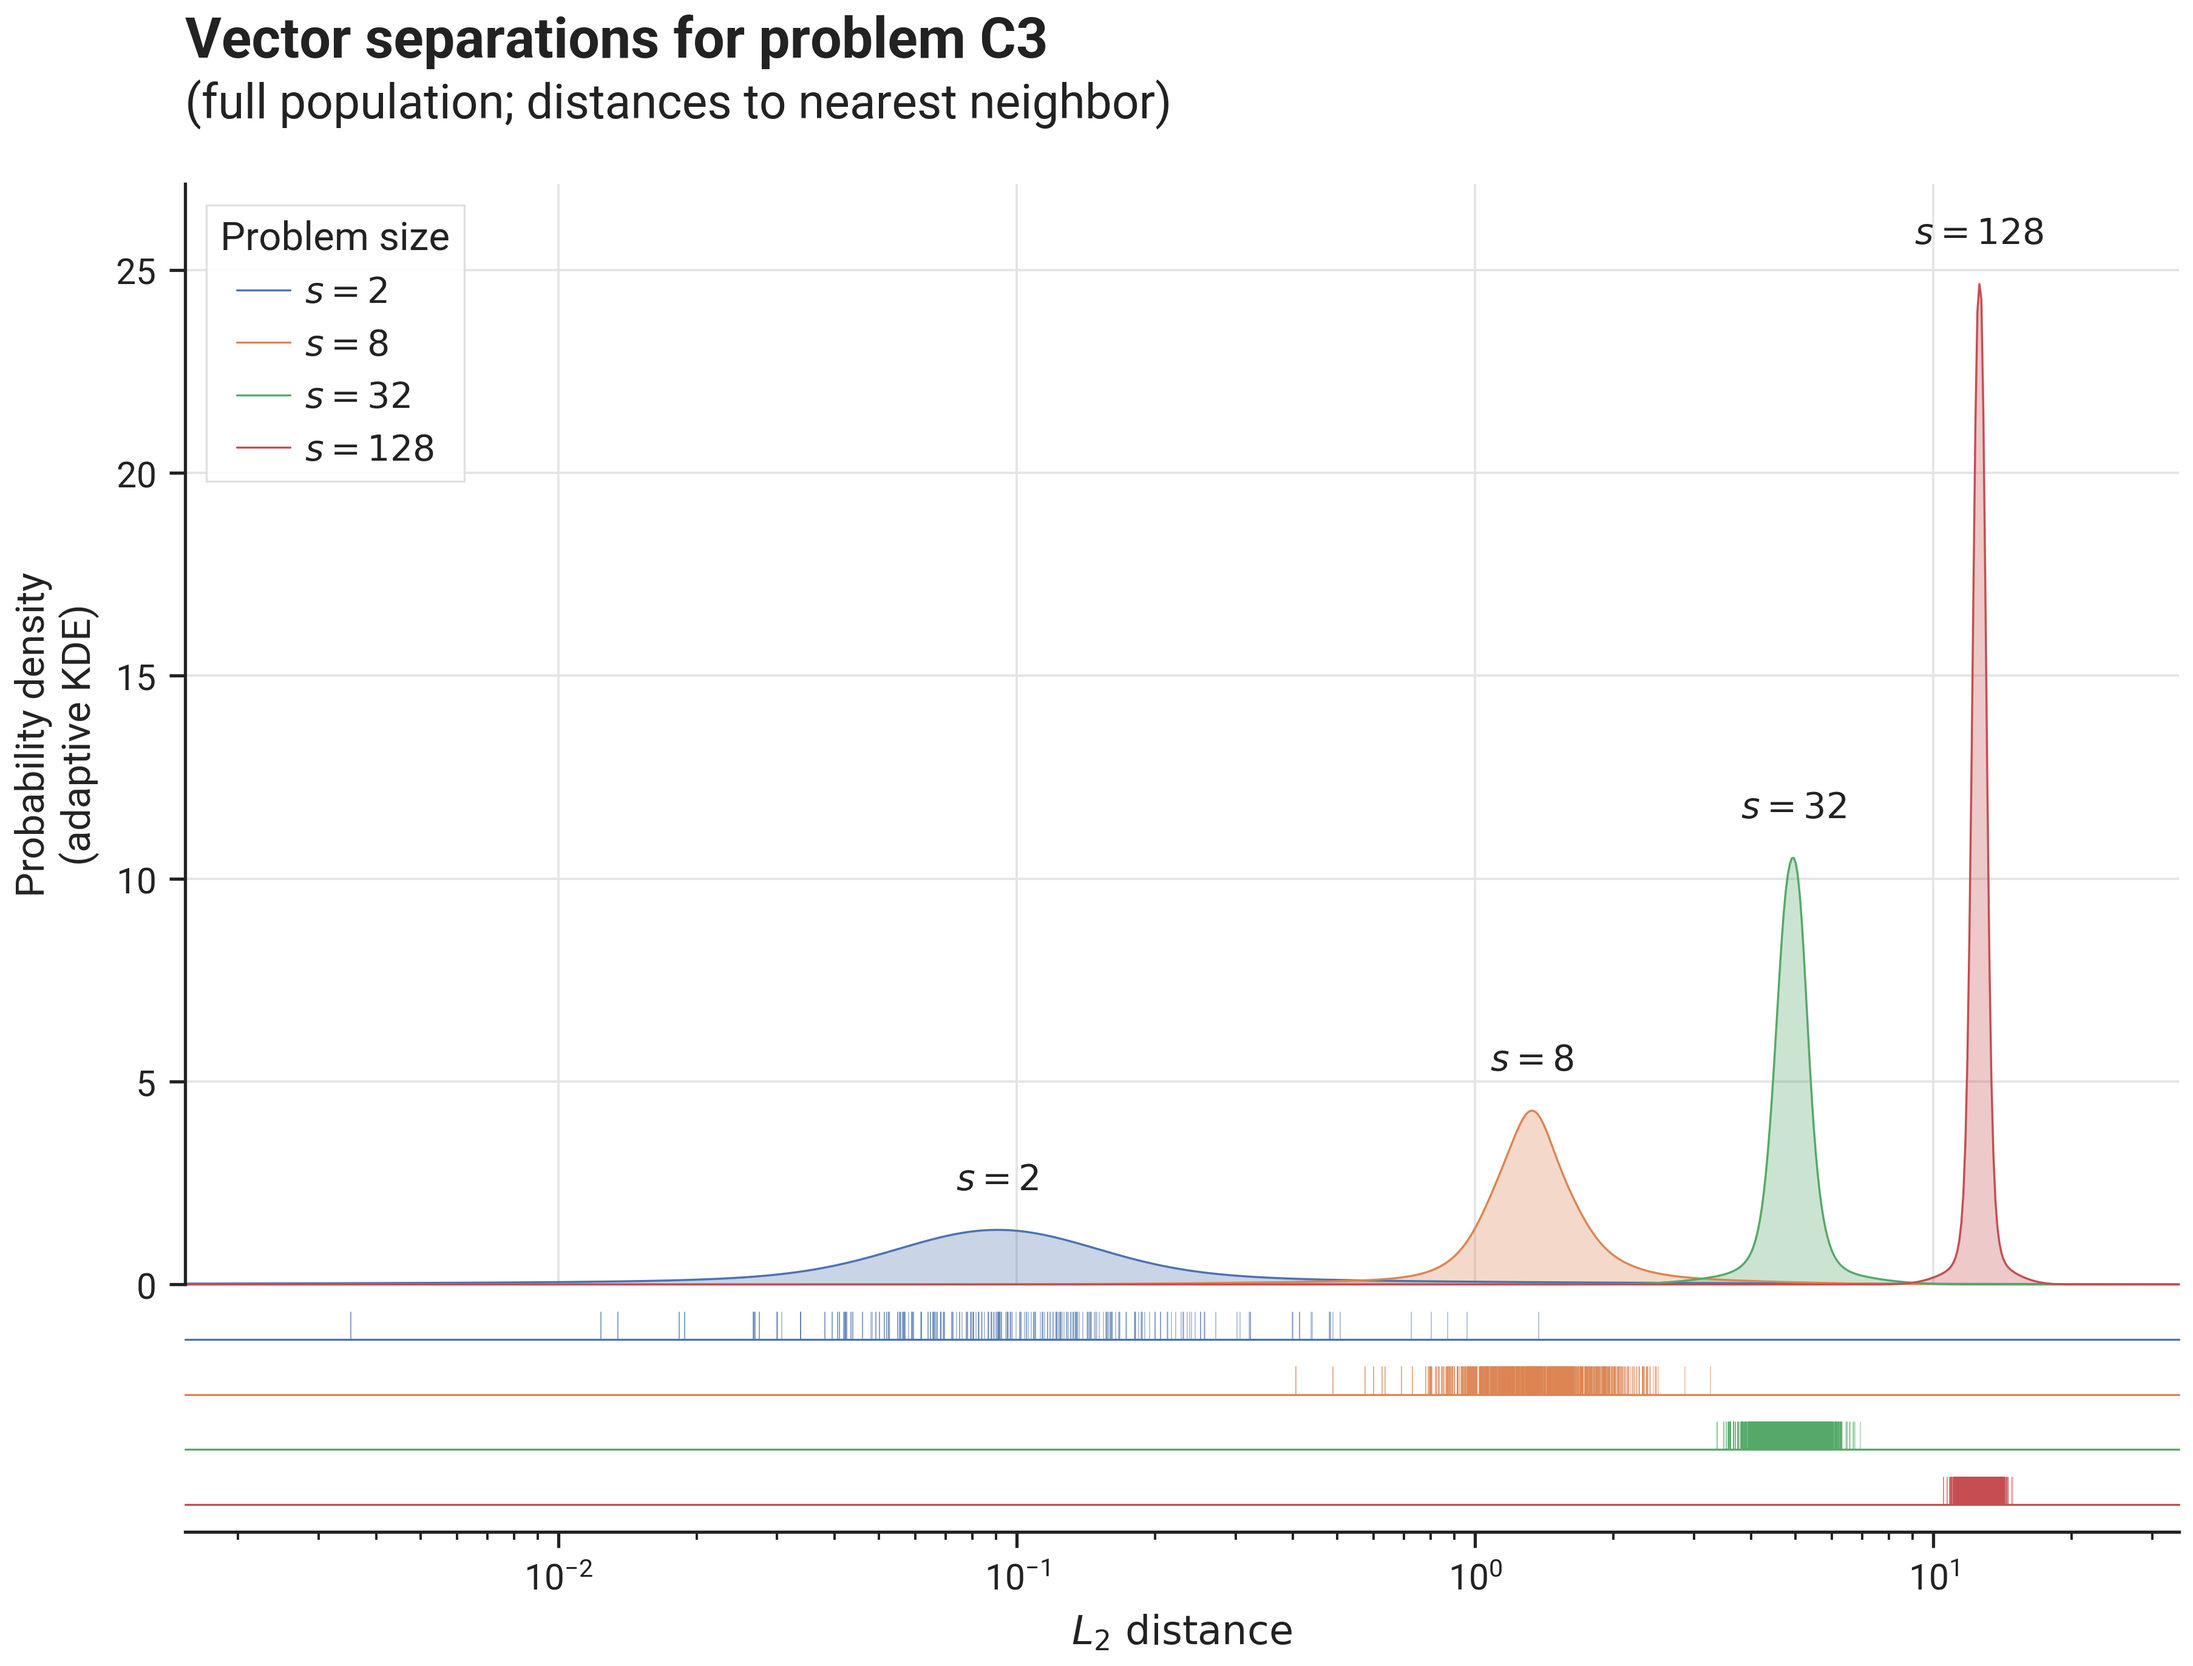
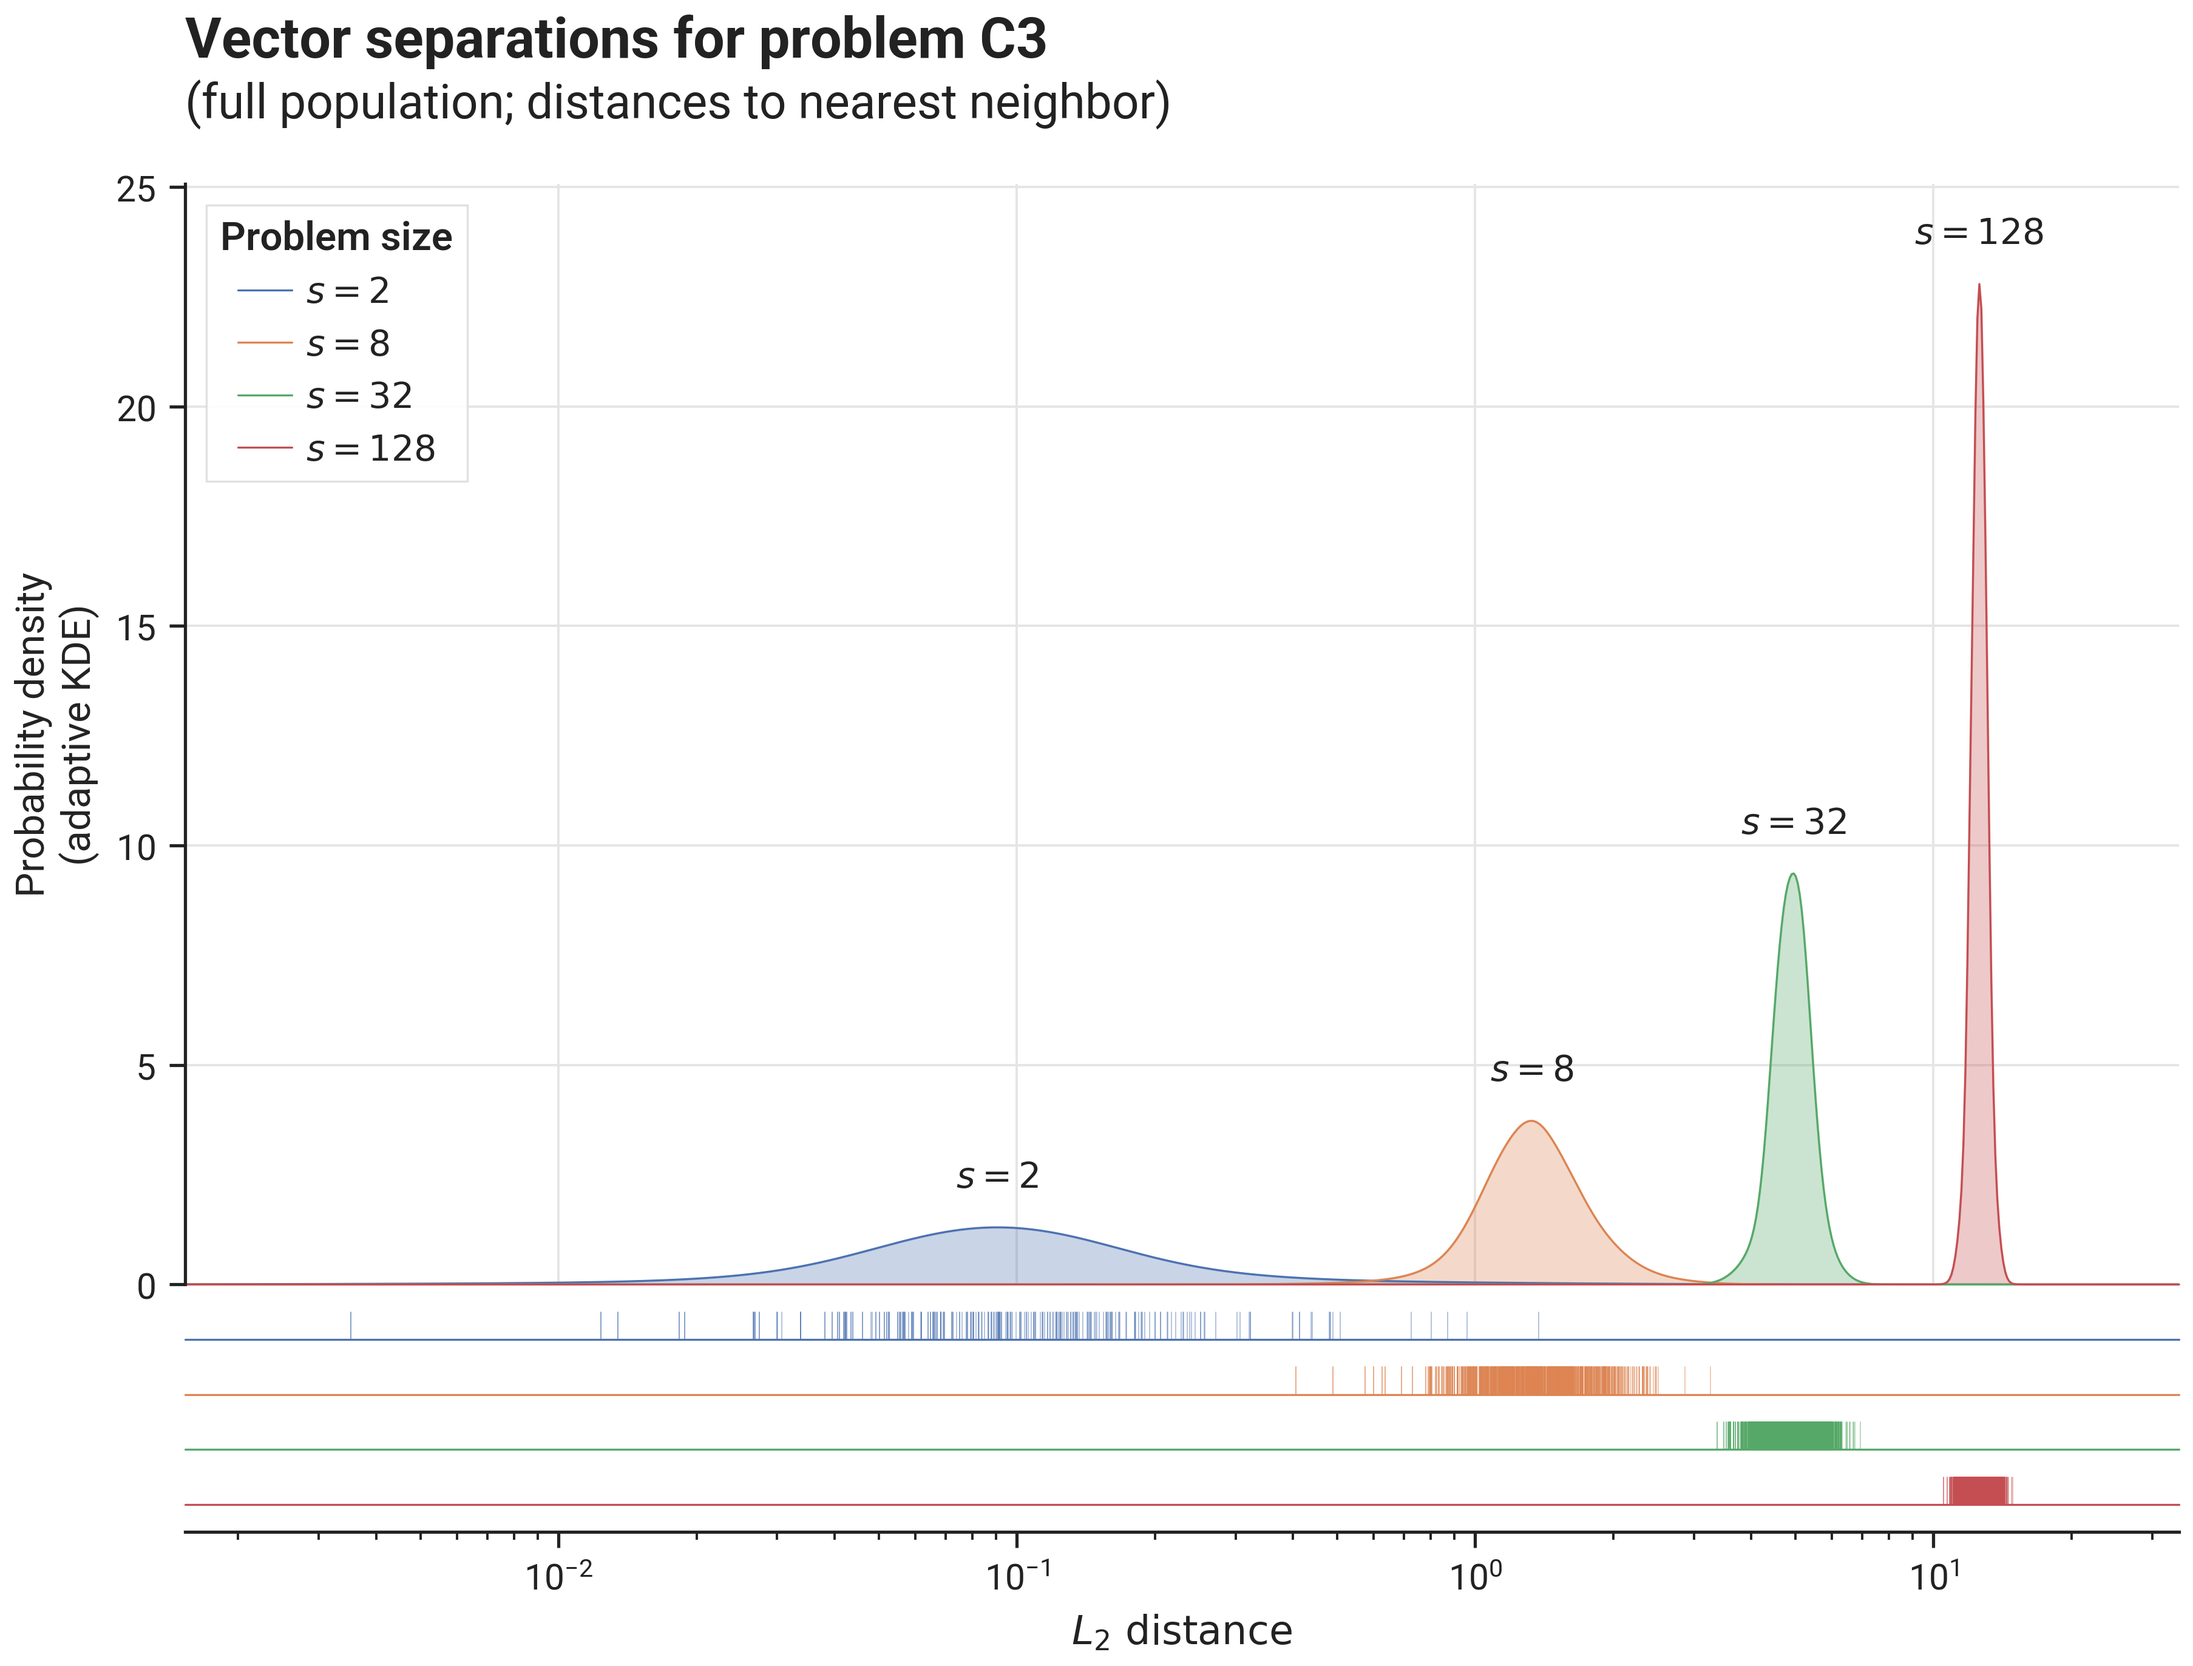
Layout tweaks to docs figures.

diff --git a/local/docs/utils/kde.py b/local/docs/utils/kde.py
@@ -1,58 +1,98 @@
+import numba
 import numpy as np
-from scipy.stats import gaussian_kde, norm
 
 
-def univariate_kde(samples: np.ndarray, x_values: np.ndarray, n_centers: int = 1000) -> np.ndarray:
-    """
-    Computes a KDE for the provided samples and evaluates it at the given x_values.
-    """
+# =================================================================================================
+#  KDE - 1D - Adaptive
+# =================================================================================================
+def univariate_kde_adaptive(
+    samples: np.ndarray,
+    x_values: np.ndarray,
+    n_centers_max: int = 1000,
+    smoothness: float = 1.0,
+    bw_q_clip: tuple = (0.1, 0.9),
+) -> np.ndarray:
 
-    # convert to 1000 values
-    samples = np.quantile(
-        samples,
-        np.linspace(0, 1, n_centers),
+    # --- cap data size -----------------------------------
+    if len(samples) > n_centers_max:
+        samples = np.quantile(samples, np.linspace(0, 1, n_centers_max))
+
+    # --- pilot KDE ---------------------------------------
+    # pilot non-adaptive KDE, evaluated at 'samples' instead of 'x_values', so we get an estimate
+    # of the density at each sample point
+    pilot_kde = univariate_kde(samples, samples, n_centers_max, smoothness)
+
+    # --- compute adapted bandwidths ----------------------
+    bw_median = smoothness * bw_silverman(samples)
+    d_median = np.median(pilot_kde)  # median density corresponds to Silverman's rule-of-thumb bandwidth
+    bw_adaptive = bw_median * np.sqrt(d_median / pilot_kde)  # ~Abramson's square-root law for adaptive bandwidths
+
+    bw_clip_lb, wb_clip_ub = np.quantile(bw_adaptive, bw_q_clip)
+    bw_adaptive = np.clip(bw_adaptive, bw_clip_lb, wb_clip_ub)  # clip bandwidths to avoid extreme values
+
+    # --- compute KDE with adaptive bandwidths ------------
+    return _univariate_kde(
+        mu=samples,
+        sigma=bw_adaptive,
+        x_values=x_values,
     )
 
-    # KDE
-    kde_obj = gaussian_kde(samples, bw_method="silverman")
-    kde_values = kde_obj.evaluate(x_values)
 
-    # return
-    return kde_values
-
-
-def univariate_kde_adaptive(
+# =================================================================================================
+#  KDE - 1D - Non-Adaptive
+# =================================================================================================
+def univariate_kde(
     samples: np.ndarray, x_values: np.ndarray, n_centers_max: int = 1000, smoothness: float = 1.0
 ) -> np.ndarray:
 
-    # --- choose centers ----------------------------------
-    n_centers = min(n_centers_max, len(samples))
-    q_centers = np.linspace(0.5 / n_centers, 1 - (0.5 / n_centers), n_centers)
-    x_centers = np.quantile(samples, q_centers)
+    # --- cap data size -----------------------------------
+    if len(samples) > n_centers_max:
+        samples = np.quantile(samples, np.linspace(0, 1, n_centers_max))
 
-    # --- compute local bandwidths -----------------------
-    q_width = min(0.5, 0.3 * smoothness / (n_centers ** (1 / 5)))
-    min_x_width = np.quantile(np.diff(sorted(set(x_centers))), 0.05)
-    x_widths = []
-    for q, x in zip(q_centers, x_centers):
-        if q <= q_width:
-            q_left = 0.0
-            q_right = 2 * q_width
-        elif q >= 1 - q_width:
-            q_left = 1 - 2 * q_width
-            q_right = 1.0
-        else:
-            q_left = q - q_width
-            q_right = q + q_width
+    # --- compute bandwidth -------------------------------
+    bw = smoothness * bw_silverman(samples)
 
-        w = np.quantile(samples, q_right) - np.quantile(samples, q_left)
-        w = max(min_x_width, w)
-        x_widths.append(w)
+    # --- compute KDE values ------------------------------
+    return _univariate_kde(
+        mu=samples,
+        sigma=np.full_like(samples, bw),
+        x_values=x_values,
+    )
 
-    # --- compute KDE values --------------------------------
+
+def bw_silverman(data: np.ndarray) -> float:
+    """Computes Silverman's rule-of-thumb bandwidth for 1D data."""
+    std_dev = np.std(data, ddof=1)
+    q25, q75 = np.quantile(data, [0.25, 0.75])
+    iqr = q75 - q25
+    sigma = min(std_dev, iqr / 1.34) if iqr > 0 else std_dev
+    return float(0.9 * sigma * (len(data) ** (-1 / 5)))
+
+
+# =================================================================================================
+#  KDE - 1D - Core
+# =================================================================================================
+@numba.njit(cache=True, fastmath=True, inline="always")
+def _univariate_kde(mu: np.ndarray, sigma: np.ndarray, x_values: np.ndarray) -> np.ndarray:
+    """
+    Evaluates a given KDE (defined by identically sized mu, sigma arrays) at the given x_values.
+    """
+
+    # --- prep ------------------------
     kde_values = np.zeros_like(x_values)
-    for x_center, x_width in zip(x_centers, x_widths):
-        kde_values += norm.pdf(x_values, loc=x_center, scale=x_width)
-    kde_values /= len(x_centers)
+    main_const = 1.0 / (np.sqrt(2.0 * np.pi) * len(mu))
+
+    # --- main loop -------------------
+    for i in range(len(mu)):
+        # prep inner loop
+        mu_i = mu[i]
+        sigma_i = sigma[i]
+        sigma_i_inv = 1.0 / sigma_i
+        norm_const = main_const * sigma_i_inv
+
+        # inner loop
+        for j in range(len(x_values)):
+            z = sigma_i_inv * (x_values[j] - mu_i)
+            kde_values[j] += norm_const * np.exp(-0.5 * z * z)
 
     return kde_values

diff --git a/local/docs/figures/fig_bm_problems_separations.py b/local/docs/figures/fig_bm_problems_separations.py
@@ -163,12 +163,16 @@ def compute_kde(separations: np.ndarray, x_values: np.ndarray) -> np.ndarray:
 
     # log-transform
     log_separations = np.log10(separations)
-    # log_separations = np.quantile(log_separations, np.linspace(0, 1, 1000))
     log_x_values = np.log10(x_values)
 
     # KDE
-    # return univariate_kde(log_separations, log_x_values)
-    return univariate_kde_adaptive(log_separations, log_x_values, n_centers_max=20_000)
+    return univariate_kde_adaptive(
+        log_separations,
+        log_x_values,
+        smoothness=1.75,  # somewhat smoother curves, since we're more interested in overall shape than perfect 'fit'
+        n_centers_max=1_000_000,
+        bw_q_clip=(0.05, 0.95),
+    )
 
 
 # =================================================================================================

diff --git a/local/docs/figures/utils/save.py b/local/docs/figures/utils/save.py
@@ -4,7 +4,17 @@ from matplotlib.pyplot import Figure
 
 
 def save_fig(fig: Figure, filepath: Path, tgt_pixels: int = 10_000_000):
+
+    # apply styles not settable in Matplotlib style files
+    for ax in fig.axes:
+        leg = ax.get_legend()
+        if leg:
+            leg.get_title().set_fontweight("semibold")
+            leg.get_title().set_horizontalalignment("left")
+
+    # determine appropriate DPI for target # of pixels
     w, h = fig.get_size_inches()
     dpi = round((tgt_pixels / (w * h)) ** 0.5)
 
+    # save
     fig.savefig(filepath, bbox_inches="tight", dpi=dpi)

diff --git a/CHANGELOG.md b/CHANGELOG.md
@@ -5,11 +5,12 @@
 > *(under development)*
 <!------------------------------------------------------------------------------------------------->
 
-/
+- **improved**:
+  - tweaks to docs figures layout 
 
 <!------------------------------------------------------------------------------------------------->
 > ## v0.5.1
-> *(2026-02-07)*
+> *(2026-02-09)*
 <!------------------------------------------------------------------------------------------------->
 
 - **new**:
